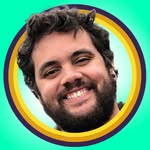
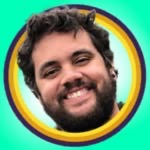
fix(landing): corrige 16 links quebrados do grid de categorias
- Cada card no grid de 'Categorias em destaque' (index.html linhas 425-441) apontava para slugs antigos (#imagens, #videos, #musica, #clima, etc) que nao existemiam no catalogo novo (sufixo -pa/-ffd obrigatorio). Corrigidos para os slugs reais (ex: #videos-pa, #criptoativos-pa, #hospedagem-web-ffd, #traducao-ffd).
- Contagens recalculadas com base nos cat-count reais (Fotografia 29, Videos 45, Musica 35, Clima 34, IA/ML 28, Geolocalizacao 94, Financas 51, Criptoativos 66, Governo 95, Noticias 21, Email 20, Redes Sociais 43, Jogos e HQs 97, Desenvolvimento 132, Hospedagem Web 22, Traducao 15).
- README.md: adicionada Author Card com foto de perfil (perfil-300.jpg) em anel Instagram gradient, linkando para @user.me.
- assets/lpfotoperfil.jpg: reescrita com a foto nova (fundo verde).
- inventario-apis.html: reescrita do base64 inline do avatar-ring (foto nova), apple-touch-icon 180x180 e favicon 32x32.

Fecha bug critico onde 16 dos 17 cards do grid levavam ao topo da pagina em vez das secoes reais do catalogo.

diff --git a/index.html b/index.html
@@ -27,9 +27,12 @@
     <link rel="alternate" hreflang="en" href="https://philipecomputacao.github.io/inventario-apis-gratuitas/?lang=en">
     <link rel="alternate" hreflang="es" href="https://philipecomputacao.github.io/inventario-apis-gratuitas/?lang=es">
     <link rel="alternate" hreflang="x-default" href="https://philipecomputacao.github.io/inventario-apis-gratuitas/">
[2 lines of base64/hex data omitted]
 
[2 lines of base64/hex data omitted]
+
+    
+
     <script>
         // No-flash theme resolver
         (function() {
@@ -420,22 +423,22 @@ footer { margin-top: 80px; padding-top: 32px; border-top: 1px solid var(--border
             <p style="color: var(--text-dim); margin-top: 0;" data-i18n="categories.lead">Amostra das categorias do catalogo completo:</p>
             <div class="cat-grid">
                 <a href="./inventario-apis.html#governo-brasileiro" style="border-color: var(--accent); background: var(--accent-soft);"><span>&#x1F1E7;&#x1F1F7;</span> <strong data-i18n="cat.govbr">Governo Brasileiro</strong> <span class="count" style="color: var(--accent);">182</span></a>
-                <a href="./inventario-apis.html#imagens"><span>&#x1F5BC;</span> <span data-i18n="cat.images">Imagens</span> <span class="count">~30</span></a>
-                <a href="./inventario-apis.html#videos"><span>&#x1F4F9;</span> <span data-i18n="cat.videos">Videos</span> <span class="count">~20</span></a>
-                <a href="./inventario-apis.html#musica"><span>&#x1F3B5;</span> <span data-i18n="cat.music">Musica</span> <span class="count">~25</span></a>
-                <a href="./inventario-apis.html#clima"><span>&#x26C5;</span> <span data-i18n="cat.weather">Clima</span> <span class="count">~15</span></a>
-                <a href="./inventario-apis.html#ia-ml"><span>&#x1F916;</span> <span data-i18n="cat.ia">IA / Machine Learning</span> <span class="count">~40</span></a>
-                <a href="./inventario-apis.html#geolocalizacao"><span>&#x1F4CD;</span> <span data-i18n="cat.geo">Geolocalizacao</span> <span class="count">~25</span></a>
-                <a href="./inventario-apis.html#financas"><span>&#x1F4B0;</span> <span data-i18n="cat.finance">Financas</span> <span class="count">~50</span></a>
-                <a href="./inventario-apis.html#criptomoedas"><span>&#x1FA99;</span> <span data-i18n="cat.crypto">Criptomoedas</span> <span class="count">~60</span></a>
-                <a href="./inventario-apis.html#governo"><span>&#x1F3DB;</span> <span data-i18n="cat.gov">Governo / Dados Abertos</span> <span class="count">~30</span></a>
-                <a href="./inventario-apis.html#noticias"><span>&#x1F4F0;</span> <span data-i18n="cat.news">Noticias</span> <span class="count">~20</span></a>
-                <a href="./inventario-apis.html#email"><span>&#x2709;</span> <span data-i18n="cat.email">Email / SMS</span> <span class="count">~25</span></a>
-                <a href="./inventario-apis.html#redes-sociais"><span>&#x1F465;</span> <span data-i18n="cat.social">Redes Sociais</span> <span class="count">~15</span></a>
-                <a href="./inventario-apis.html#jogos"><span>&#x1F3AE;</span> <span data-i18n="cat.games">Jogos</span> <span class="count">~20</span></a>
-                <a href="./inventario-apis.html#desenvolvimento"><span>&#x1F6E0;</span> <span data-i18n="cat.dev">Ferramentas Dev</span> <span class="count">~130</span></a>
-                <a href="./inventario-apis.html#hospedagem"><span>&#x2601;</span> <span data-i18n="cat.devops">Hospedagem / DevOps</span> <span class="count">~50</span></a>
-                <a href="./inventario-apis.html#traducao"><span>&#x1F310;</span> <span data-i18n="cat.translate">Traducao</span> <span class="count">~10</span></a>
+                <a href="./inventario-apis.html#fotografia-pa"><span>&#x1F5BC;</span> <span data-i18n="cat.images">Imagens</span> <span class="count">29</span></a>
+                <a href="./inventario-apis.html#videos-pa"><span>&#x1F4F9;</span> <span data-i18n="cat.videos">Videos</span> <span class="count">45</span></a>
+                <a href="./inventario-apis.html#musica-pa"><span>&#x1F3B5;</span> <span data-i18n="cat.music">Musica</span> <span class="count">35</span></a>
+                <a href="./inventario-apis.html#clima-pa"><span>&#x26C5;</span> <span data-i18n="cat.weather">Clima</span> <span class="count">34</span></a>
+                <a href="./inventario-apis.html#ia-ml-pa"><span>&#x1F916;</span> <span data-i18n="cat.ia">IA / Machine Learning</span> <span class="count">28</span></a>
+                <a href="./inventario-apis.html#geolocalizacao-pa"><span>&#x1F4CD;</span> <span data-i18n="cat.geo">Geolocalizacao</span> <span class="count">94</span></a>
+                <a href="./inventario-apis.html#financas-pa"><span>&#x1F4B0;</span> <span data-i18n="cat.finance">Financas</span> <span class="count">51</span></a>
+                <a href="./inventario-apis.html#criptoativos-pa"><span>&#x1FA99;</span> <span data-i18n="cat.crypto">Criptoativos</span> <span class="count">66</span></a>
+                <a href="./inventario-apis.html#governo-pa"><span>&#x1F3DB;</span> <span data-i18n="cat.gov">Governo / Dados Abertos</span> <span class="count">95</span></a>
+                <a href="./inventario-apis.html#noticias-pa"><span>&#x1F4F0;</span> <span data-i18n="cat.news">Noticias</span> <span class="count">21</span></a>
+                <a href="./inventario-apis.html#email-pa"><span>&#x2709;</span> <span data-i18n="cat.email">Email / SMS</span> <span class="count">20</span></a>
+                <a href="./inventario-apis.html#redes-sociais-pa"><span>&#x1F465;</span> <span data-i18n="cat.social">Redes Sociais</span> <span class="count">43</span></a>
+                <a href="./inventario-apis.html#jogos-e-hqs-pa"><span>&#x1F3AE;</span> <span data-i18n="cat.games">Jogos</span> <span class="count">97</span></a>
+                <a href="./inventario-apis.html#desenvolvimento-pa"><span>&#x1F6E0;</span> <span data-i18n="cat.dev">Ferramentas Dev</span> <span class="count">132</span></a>
+                <a href="./inventario-apis.html#hospedagem-web-ffd"><span>&#x2601;</span> <span data-i18n="cat.devops">Hospedagem / DevOps</span> <span class="count">22</span></a>
+                <a href="./inventario-apis.html#traducao-ffd"><span>&#x1F310;</span> <span data-i18n="cat.translate">Traducao</span> <span class="count">15</span></a>
             </div>
         </section>
 

diff --git a/README.md b/README.md
@@ -13,6 +13,19 @@
 
 ---
 
+<table>
+<tr>
+<td width="120" align="center" valign="top">
+<img src="./assets/perfil-300.jpg" width="100" height="100" alt="@lpdigital.me" style="border-radius: 50%; background: linear-gradient(45deg, #f09433, #e6683c, #dc2743, #cc2366, #bc1888); padding: 3px;" />
+</td>
+<td valign="top">
+
+**Curadoria e desenvolvimento por [@lpdigital.me](https://www.instagram.com/lpdigital.me/)** &mdash; Philipe compartilha APIs, automacoes e IA toda semana no Instagram. Manda um follow se o catalogo te ajudou.
+
+</td>
+</tr>
+</table>
+
 ## ✨ Destaques
 
 - 📚 **3.864+ APIs** em 112 categorias &mdash; a maior referencia open-source em PT-BR